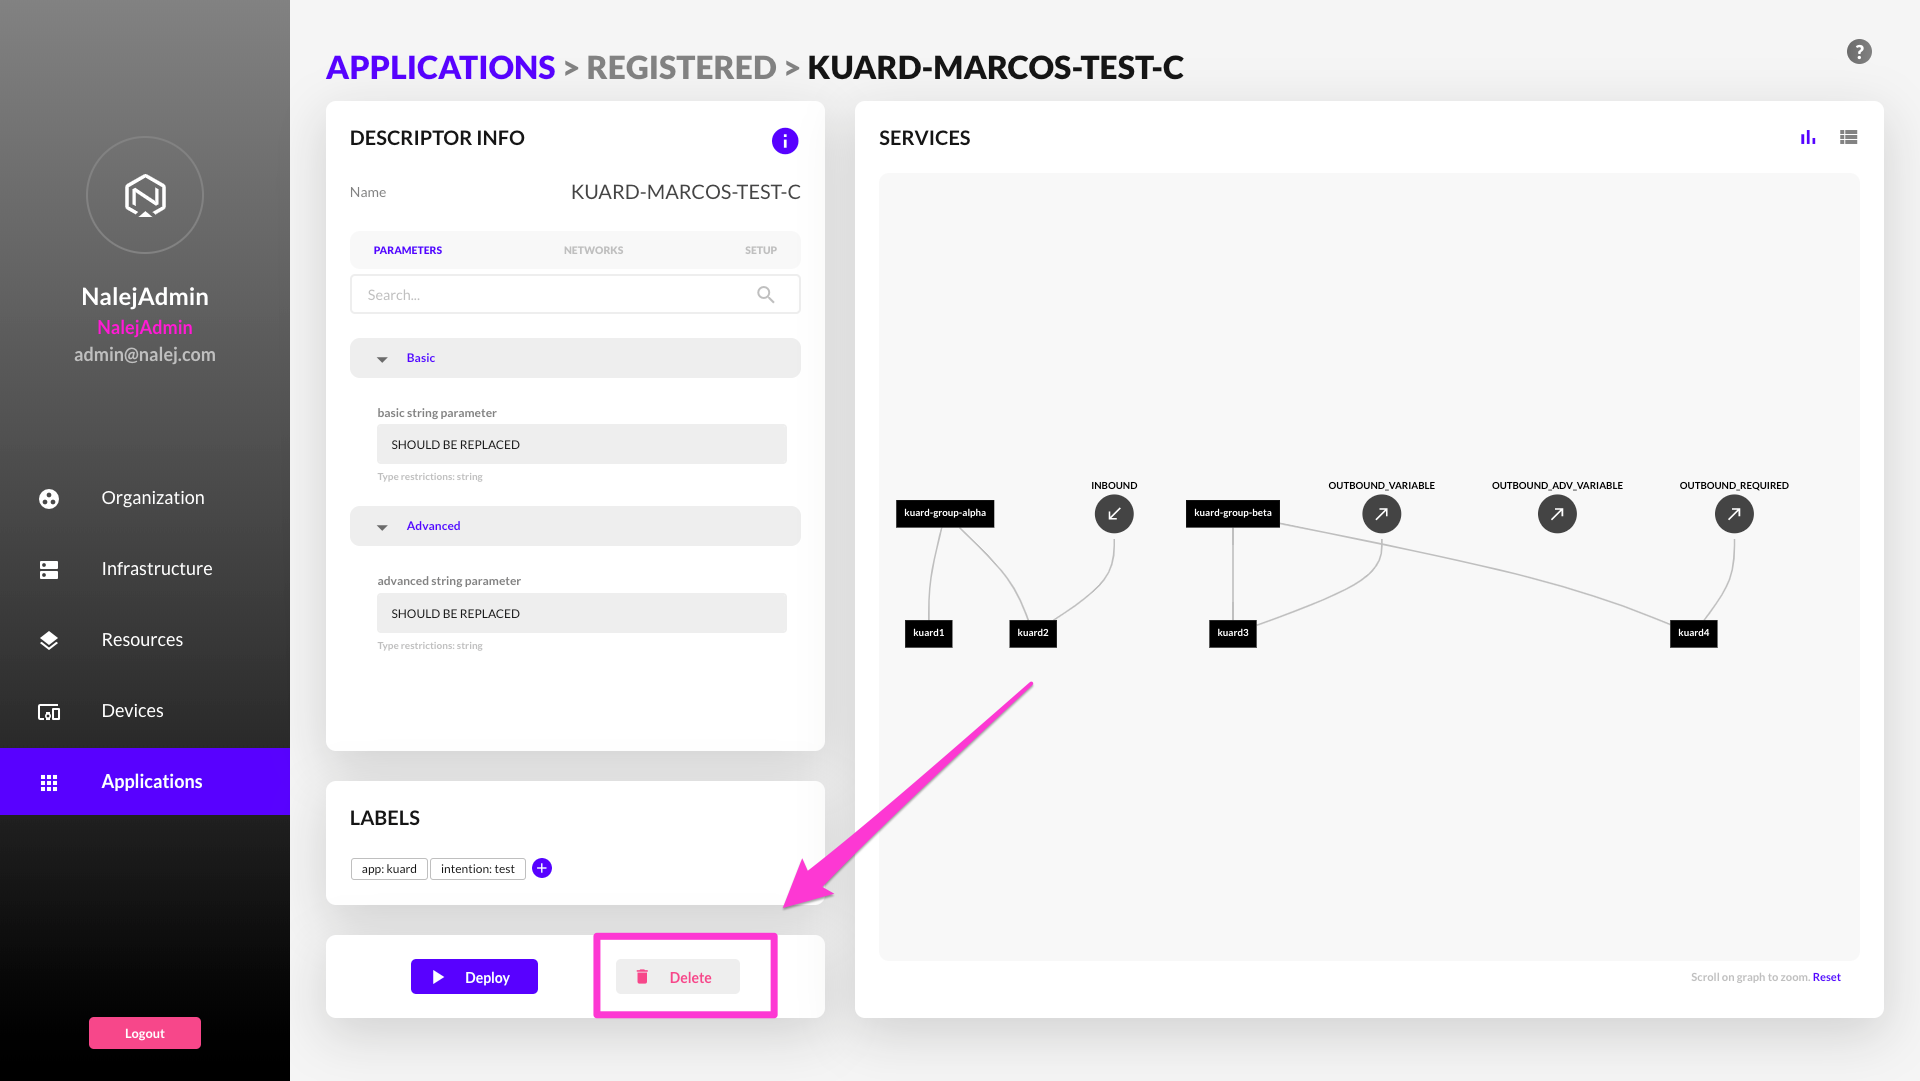
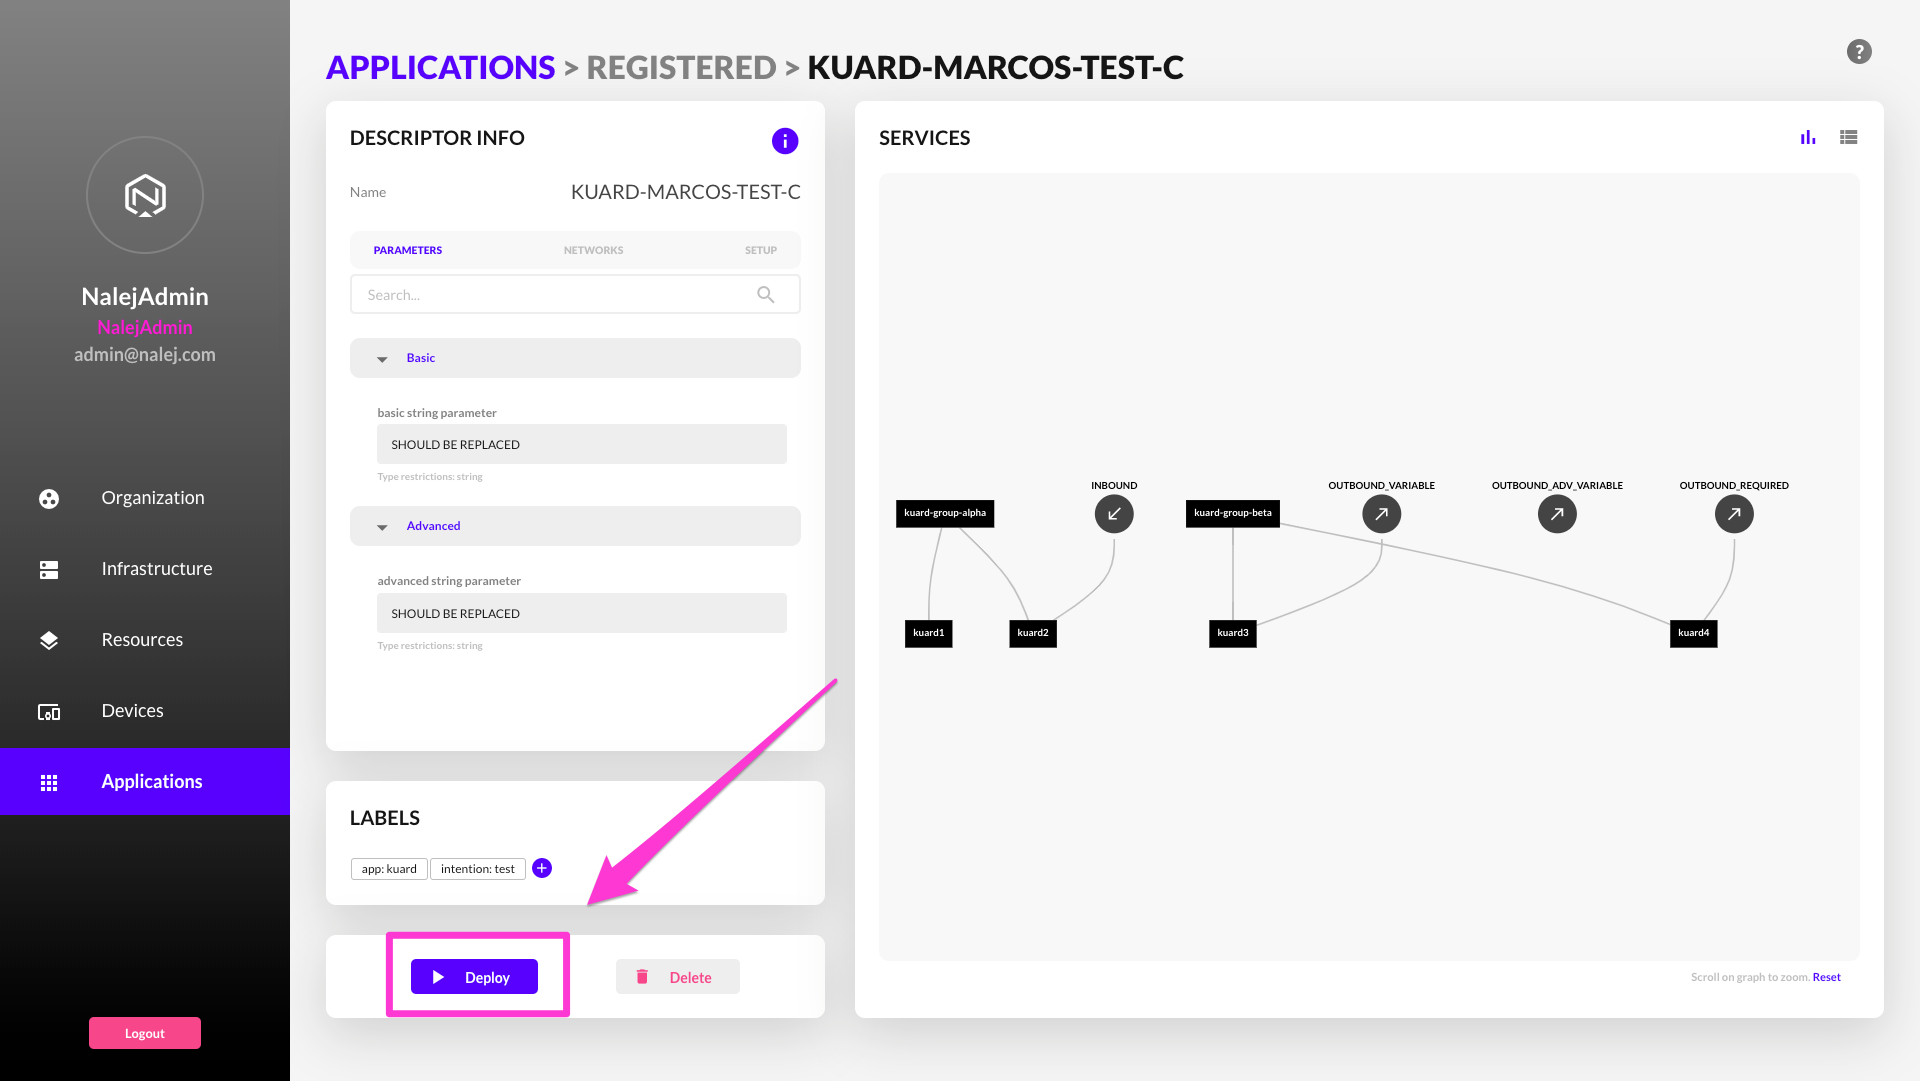
GitBook: [master] one page and 9 assets modified

diff --git a/applications/applications-1.md b/applications/applications-1.md
@@ -198,7 +198,7 @@ One of the ways to do that is by clicking the grey button in the **Actions** col
 
 Another way is to go from the **Registered** list to a concrete registered app. To deploy our application we only need to click on the **Deploy**  button on the bottom part of the screen.
 
-![Deploy from registered view](../.gitbook/assets/reg1%20%282%29.png)
+![Deploy from registered view](../.gitbook/assets/reg1%20%283%29.png)
 
 With all these actions we arrive to the same dialog, which looks like this:
 
